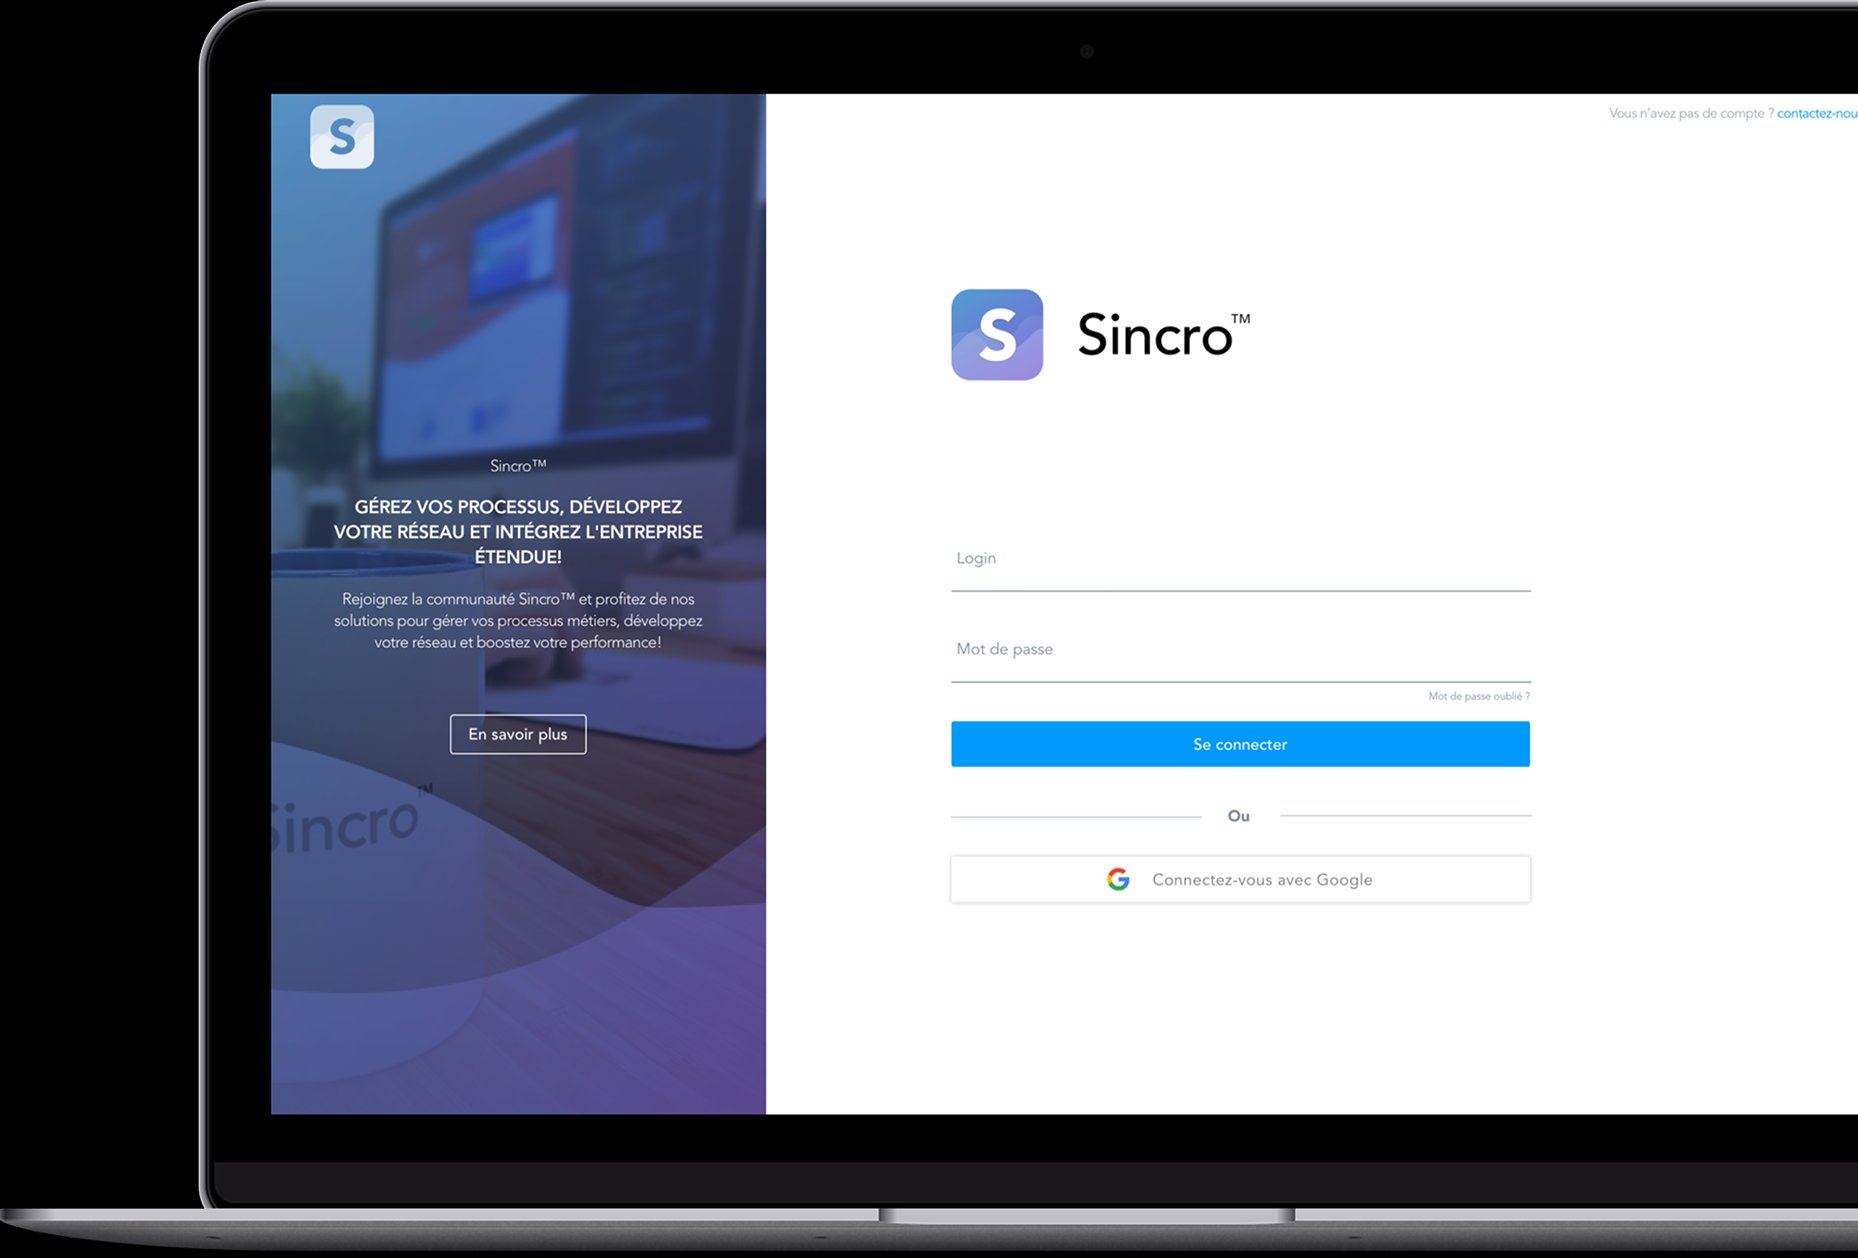
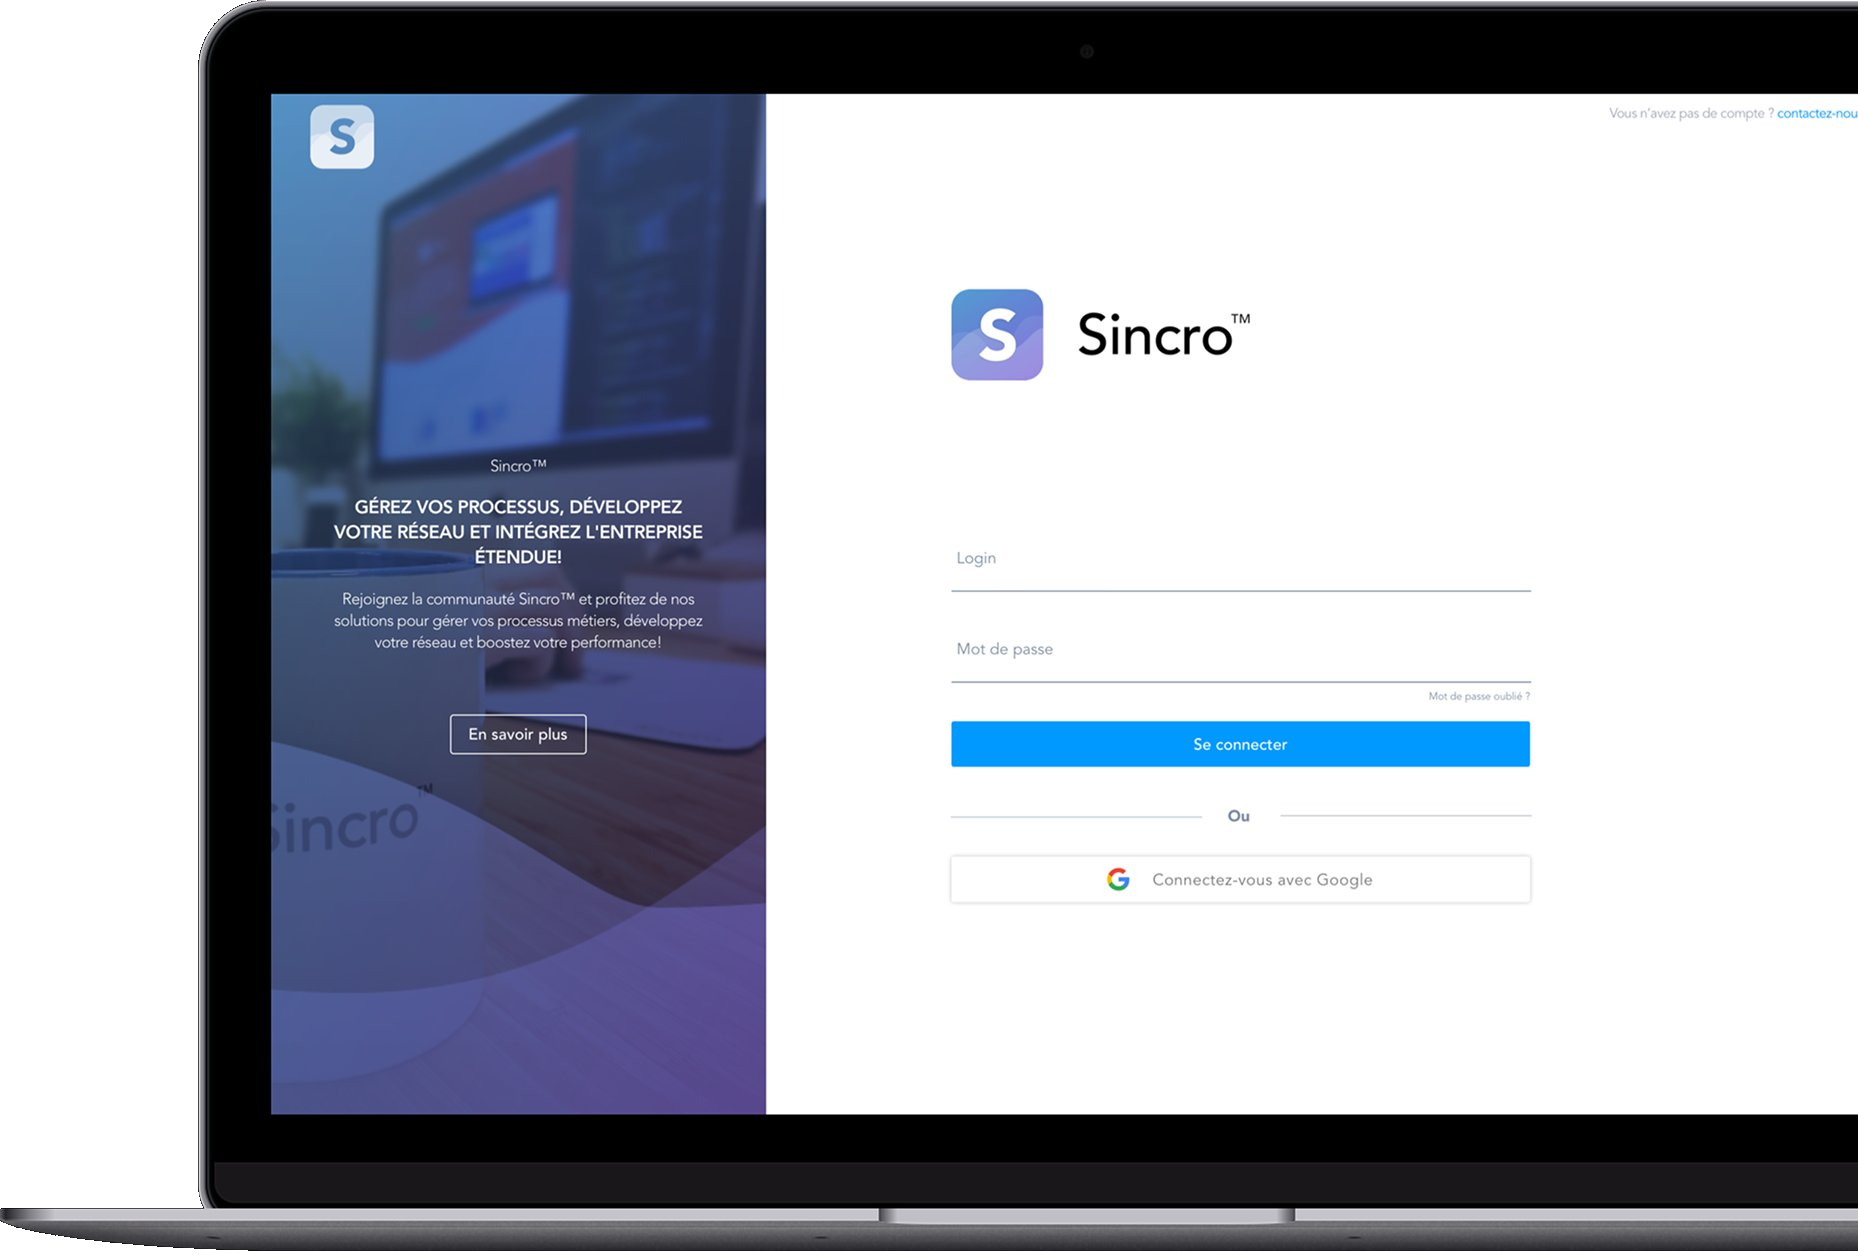
Sincro Saas : hero macbook détouré (fond transparent) + layout côte à côte
- sincro-saas-hero.png : fond noir détouré (transparent), le MacBook flotte
  désormais sur le gradient
- Hero passé en côte à côte (texte à gauche, visuel aligné au bord droit)
  via un modificateur .hero-split, conforme à la maquette Figma. Repli
  empilé et centré sur mobile.

Changed region(s): [[0.0, 0.0, 1.0, 1.0]]

diff --git a/assets/css/style.css b/assets/css/style.css
@@ -284,6 +284,20 @@ h3 { font-size: clamp(20px, 1.66vw, 32px); }
 .case-hero.align-right .brand { justify-content: flex-end; }
 .case-hero.align-right h1 { margin-left: auto; margin-right: 0; }
 .case-hero.align-right p { margin-left: auto; margin-right: 0; }
+/* Hero côte à côte : texte à gauche, visuel aligné au bord droit (ex. Sincro Saas) */
+.case-hero.hero-split {
+  display: grid; grid-template-columns: minmax(0, 1fr) minmax(0, 1.05fr);
+  grid-template-rows: auto auto auto; column-gap: clamp(24px, 4vw, 72px);
+  align-items: center; text-align: left; padding-bottom: 0;
+}
+.case-hero.hero-split .brand { grid-area: 1 / 1; justify-content: flex-start; }
+.case-hero.hero-split h1 { grid-area: 2 / 1; margin: 0; }
+.case-hero.hero-split p { grid-area: 3 / 1; margin: clamp(16px, 2vw, 28px) 0 0; }
+.case-hero.hero-split .hero-visual {
+  grid-area: 1 / 2 / 4 / 3; margin: 0; max-width: none;
+  align-self: center; justify-self: end; width: 100%;
+}
+.case-hero.hero-split .hero-visual img { margin: 0 0 0 auto; width: 100%; }
 
 .case-section { padding-block: clamp(56px, 7vw, 150px); }
 .case-section.tight { padding-top: 0; }
@@ -456,6 +470,14 @@ h3 { font-size: clamp(20px, 1.66vw, 32px); }
   .case-hero.align-left .brand, .case-hero.align-right .brand { justify-content: center; }
   .case-hero.align-left h1, .case-hero.align-right h1,
   .case-hero.align-left p, .case-hero.align-right p { margin-left: auto; margin-right: auto; }
+
+  /* Hero côte à côte : repli empilé et centré sur mobile */
+  .case-hero.hero-split { display: block; text-align: center; }
+  .case-hero.hero-split .brand { justify-content: center; }
+  .case-hero.hero-split h1, .case-hero.hero-split p { margin-left: auto; margin-right: auto; }
+  .case-hero.hero-split p { margin-bottom: 0; }
+  .case-hero.hero-split .hero-visual { justify-self: auto; margin: clamp(28px, 4vw, 64px) auto 0; }
+  .case-hero.hero-split .hero-visual img { margin: 0 auto; }
 
   /* Planning : mini-cartes légèrement réduites */
   .phases { gap: 10px; }

diff --git a/projets/sincro-saas.html b/projets/sincro-saas.html
@@ -27,7 +27,7 @@
   </nav>
 </header>
 <main>
-  <section class="case-hero align-left" style="background:linear-gradient(135deg, #4975E9 0%, #7B61FF 100%);color:#FFFFFF;background-image:url('../assets/img/decor-sincro-gradient.png');background-size:cover;background-position:bottom center;background-repeat:no-repeat;">
+  <section class="case-hero hero-split" style="background:linear-gradient(135deg, #4975E9 0%, #7B61FF 100%);color:#FFFFFF;background-image:url('../assets/img/decor-sincro-gradient.png');background-size:cover;background-position:bottom center;background-repeat:no-repeat;">
     <span class="brand"><img class="brand-logo" src="../assets/img/logo-sincro-white.png" alt="Sincro" onerror="this.parentNode.textContent=this.alt"></span>
     <h1>La suite applicative pour une gestion plus facile que jamais</h1>
     <p>Achats, facture, fournisseurs, devoir de vigilance, saisie des temps… Découvrez le processus design qui a simplifié la manière de gérer l’écosystème de la prestation intellectuelle.</p>

diff --git a/en/projects/sincro-saas.html b/en/projects/sincro-saas.html
@@ -27,7 +27,7 @@
   </nav>
 </header>
 <main>
-  <section class="case-hero align-left" style="background:linear-gradient(135deg, #4975E9 0%, #7B61FF 100%);color:#FFFFFF;background-image:url('../../assets/img/decor-sincro-gradient.png');background-size:cover;background-position:bottom center;background-repeat:no-repeat;">
+  <section class="case-hero hero-split" style="background:linear-gradient(135deg, #4975E9 0%, #7B61FF 100%);color:#FFFFFF;background-image:url('../../assets/img/decor-sincro-gradient.png');background-size:cover;background-position:bottom center;background-repeat:no-repeat;">
     <span class="brand"><img class="brand-logo" src="../../assets/img/logo-sincro-white.png" alt="Sincro" onerror="this.parentNode.textContent=this.alt"></span>
     <h1>The app suite for easier management than ever</h1>
     <p>Purchasing, invoicing, vendors, duty of care, time tracking… Discover the design process that simplified the way the intellectual-services ecosystem is managed.</p>

diff --git a/build.py b/build.py
@@ -274,12 +274,13 @@ def build_case(p, L, LAB, out_path, rel, lang_href, home_href, next_proj, proj_d
     title_html = p.get("hero_title_html") or html.escape(p["hero_title"])
     title_style = f' style="color:{p["hero_title_color"]}"' if p.get("hero_title_color") else ""
     align_cls = f' align-{p["hero_align"]}' if p.get("hero_align") else ""
+    split_cls = ' hero-split' if p.get("hero_split") else ""
 
     page = head(f"{p['name']} — {L['title']}", rel, L["lang"])
     page += nav(L, rel, lang_href, home_href)
     page += f"""
 <main>
-  <section class="case-hero{align_cls}" style="background:{p['hero_bg']};color:{fg};{hero_bg_img_css}">
+  <section class="case-hero{align_cls}{split_cls}" style="background:{p['hero_bg']};color:{fg};{hero_bg_img_css}">
     {brand_html(rel, p)}
     <h1{title_style}>{title_html}</h1>
     <p>{html.escape(p['hero_desc'])}</p>

diff --git a/data_fr.py b/data_fr.py
@@ -90,7 +90,7 @@ PROJECTS_FR = [
 # ============================================================ SINCRO SAAS
 {
  "slug": "sincro-saas", "name": "Sincro Saas", "brand": "Sincro", "brand_logo": "logo-sincro-white.png",
- "accent": "#4975E9", "hero_bg": "linear-gradient(135deg, #4975E9 0%, #7B61FF 100%)", "hero_fg": "#FFFFFF", "hero_align": "left",
+ "accent": "#4975E9", "hero_bg": "linear-gradient(135deg, #4975E9 0%, #7B61FF 100%)", "hero_fg": "#FFFFFF", "hero_split": True,
  "card_bg": True, "card_text": "left",
  "hero_bg_img": "decor-sincro-gradient.png", "hero_shadow_img": "decor-shadow.png",
  "hero_title": "La suite applicative pour une gestion plus facile que jamais",

diff --git a/data_en.py b/data_en.py
@@ -89,7 +89,7 @@ PROJECTS_EN = [
 # ============================================================ SINCRO SAAS
 {
  "slug": "sincro-saas", "name": "Sincro Saas", "brand": "Sincro", "brand_logo": "logo-sincro-white.png",
- "accent": "#4975E9", "hero_bg": "linear-gradient(135deg, #4975E9 0%, #7B61FF 100%)", "hero_fg": "#FFFFFF", "hero_align": "left",
+ "accent": "#4975E9", "hero_bg": "linear-gradient(135deg, #4975E9 0%, #7B61FF 100%)", "hero_fg": "#FFFFFF", "hero_split": True,
  "card_bg": True, "card_text": "left",
  "hero_bg_img": "decor-sincro-gradient.png", "hero_shadow_img": "decor-shadow.png",
  "hero_title": "The app suite for easier management than ever",
